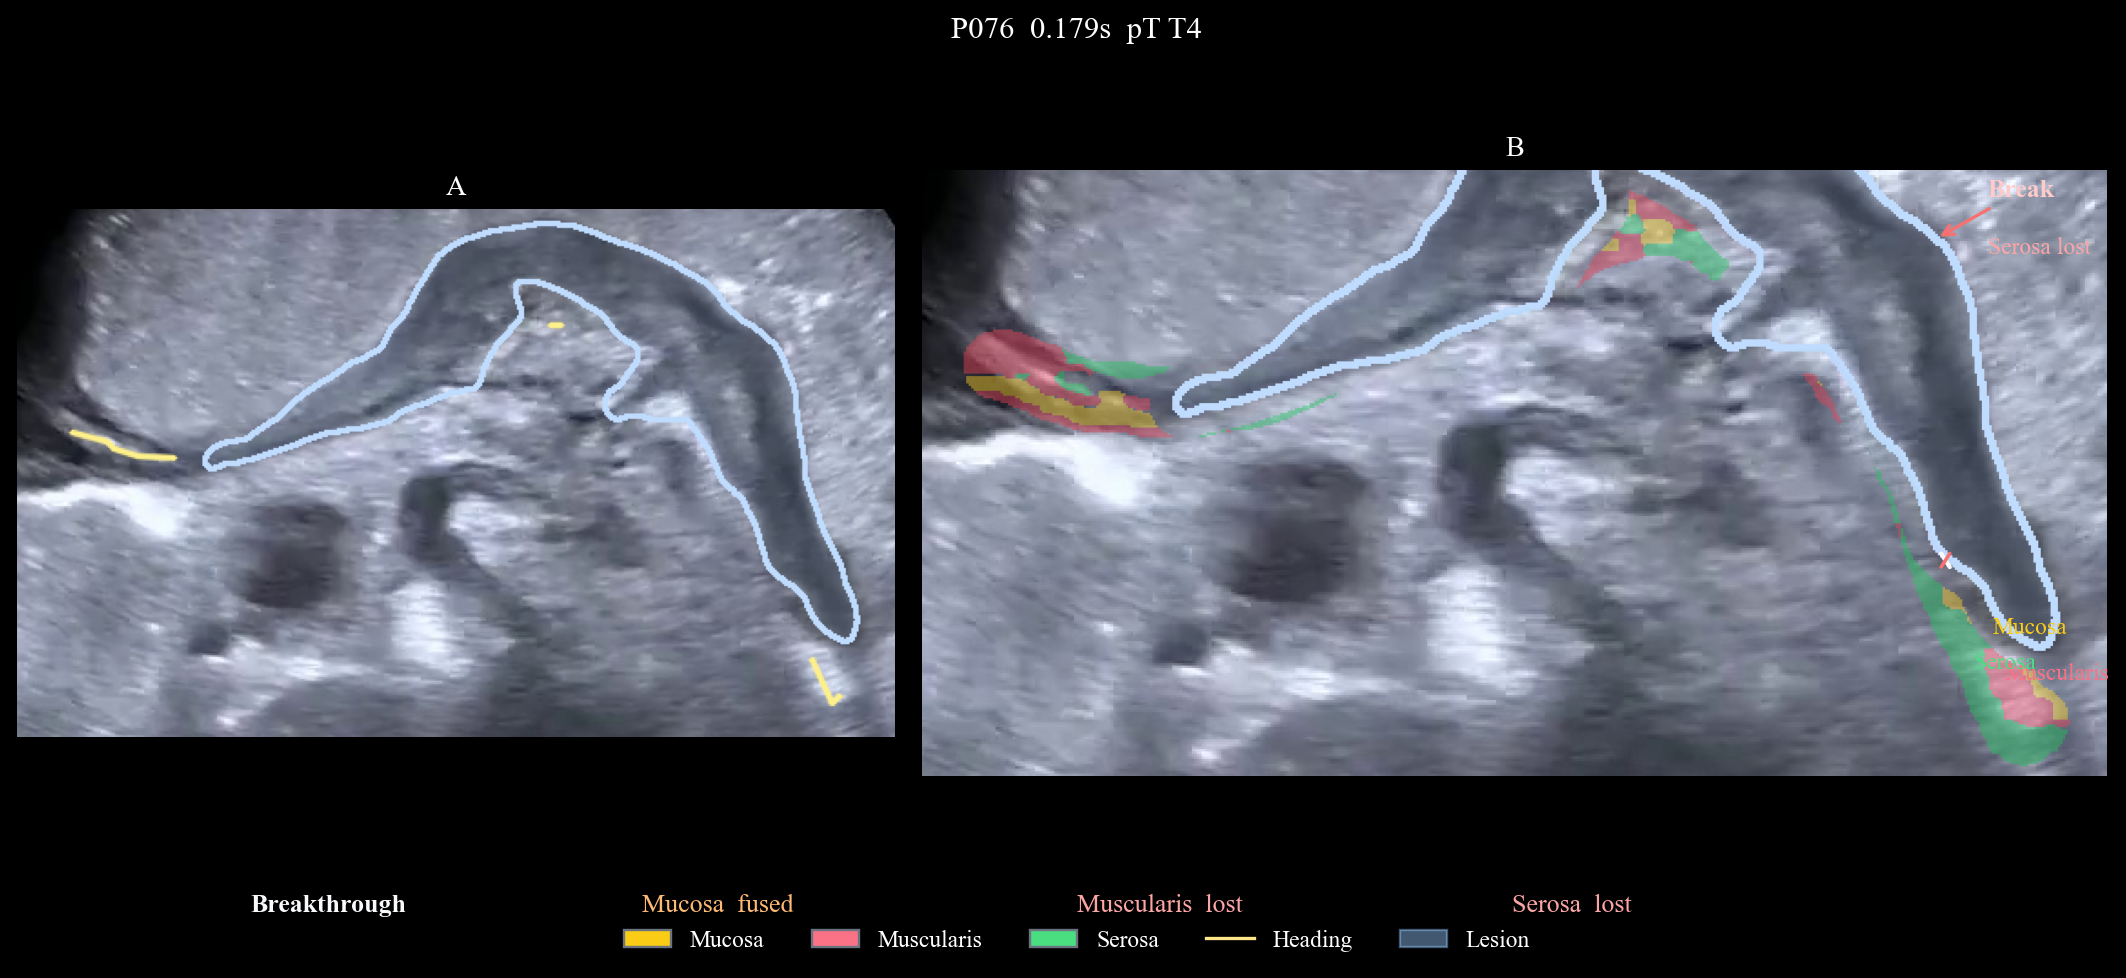
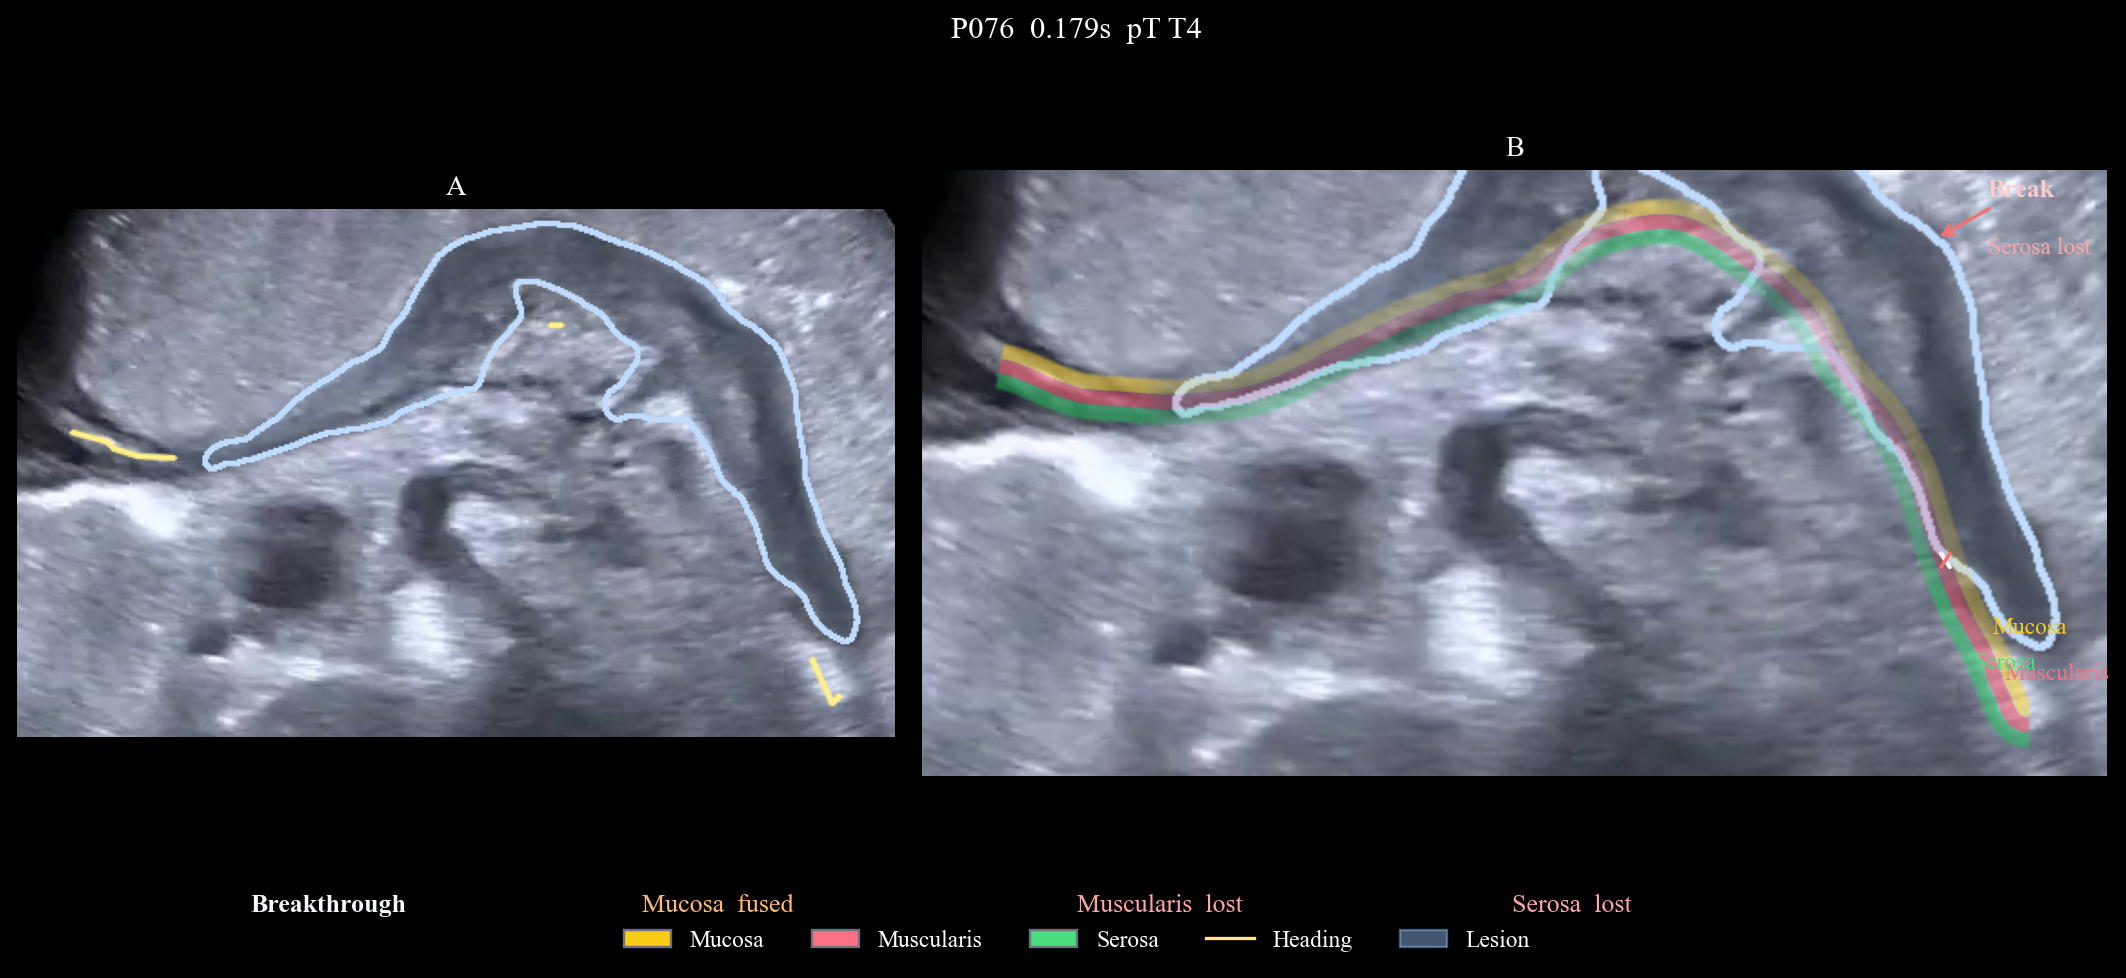
Draw one smooth yellow-red-green ribbon along the whole heading.
Collapse scribbled wall strokes to a centerline so the three colors stay one continuous strip, faded but still visible through the mass.

Changed region(s): [[0.4346, 0.184, 0.9934, 0.7975]]

diff --git a/scripts/render_wall_layer_thin_bands.py b/scripts/render_wall_layer_thin_bands.py
@@ -32,6 +32,7 @@ from matplotlib.patches import Patch
 from wall_lesion_aware_cluster import (  # noqa: E402
     DEFAULT_BRUSH,
     as_xy,
+    closest_on_poly,
     cluster_brush_band,
     densify_polyline,
     dilate_mask,
@@ -55,8 +56,8 @@ LAYER_RGB = {
 }
 LAYER_HEX = {0: "#facc15", 1: "#fb7185", 2: "#4ade80"}
 WALL = (254, 240, 138)
-SIDE_BLEND = 0.44
-MID_BLEND = 0.02
+SIDE_BLEND = 0.52
+MID_BLEND = 0.22
 LESION_BLEND = 0.16
 GAP_PX = 1
 HEADING_GAP_PX = 16
@@ -243,45 +244,264 @@ def overlay_blue(rgb: np.ndarray, mask: np.ndarray, alpha: float = LESION_BLEND)
     return np.clip(out, 0, 255).astype(np.uint8)
 
 
+def heading_flank_runs(wall: np.ndarray, lesion: np.ndarray, gap_px: int) -> list[np.ndarray]:
+    wall = as_xy(wall)
+    if len(wall) < 2:
+        return []
+    dense = densify_polyline(wall, 2.0)
+    gap = dilate_mask(lesion, gap_px) if lesion is not None else np.zeros((1, 1), dtype=np.uint8)
+    h, w = gap.shape[:2]
+    run: list[list[float]] = []
+    runs: list[np.ndarray] = []
+    for point in dense:
+        x = float(point[0])
+        y = float(point[1])
+        ix, iy = int(round(x)), int(round(y))
+        hit = 0 <= ix < w and 0 <= iy < h and gap[iy, ix] > 0
+        if hit:
+            if len(run) >= 4:
+                runs.append(np.asarray(run, dtype=np.float32))
+            run = []
+            continue
+        run.append([x, y])
+    if len(run) >= 4:
+        runs.append(np.asarray(run, dtype=np.float32))
+    return [pts for pts in runs if float(np.sum(np.linalg.norm(np.diff(pts, axis=0), axis=1))) >= 12.0]
+
+
+def _neighbors8(x: int, y: int):
+    for dy in (-1, 0, 1):
+        for dx in (-1, 0, 1):
+            if dx == 0 and dy == 0:
+                continue
+            yield x + dx, y + dy
+
+
+def longest_skeleton_path(skel: np.ndarray) -> np.ndarray:
+    ys, xs = np.where(skel)
+    if len(xs) < 2:
+        return np.zeros((0, 2), dtype=np.float32)
+    pixels = set(zip(xs.tolist(), ys.tolist()))
+    adj = {p: [q for q in _neighbors8(*p) if q in pixels] for p in pixels}
+    seen: set[tuple[int, int]] = set()
+    best_comp: list[tuple[int, int]] = []
+    for start in pixels:
+        if start in seen:
+            continue
+        queue = [start]
+        seen.add(start)
+        comp = []
+        for node in queue:
+            comp.append(node)
+            for nxt in adj[node]:
+                if nxt not in seen:
+                    seen.add(nxt)
+                    queue.append(nxt)
+        if len(comp) > len(best_comp):
+            best_comp = comp
+    ends = [p for p in best_comp if len(adj[p]) <= 1]
+    if len(ends) < 2:
+        ends = sorted(best_comp, key=lambda p: len(adj[p]))[:12]
+
+    def bfs(src: tuple[int, int]):
+        dist = {src: 0}
+        prev = {src: None}
+        queue = [src]
+        for node in queue:
+            for nxt in adj[node]:
+                if nxt not in dist:
+                    dist[nxt] = dist[node] + 1
+                    prev[nxt] = node
+                    queue.append(nxt)
+        far = max(dist, key=dist.get)
+        return far, dist[far], prev
+
+    picked = None
+    for end in ends[:24]:
+        far, dist, prev = bfs(end)
+        if picked is None or dist > picked[0]:
+            picked = (dist, end, far, prev)
+    if picked is None:
+        return np.zeros((0, 2), dtype=np.float32)
+    _dist, _end, far, prev = picked
+    path = [far]
+    while prev[path[-1]] is not None:
+        path.append(prev[path[-1]])
+    path.reverse()
+    return np.asarray(path, dtype=np.float32)
+
+
+def gaussian_smooth_poly(pts: np.ndarray, sigma: float) -> np.ndarray:
+    pts = np.asarray(pts, dtype=np.float32)
+    if len(pts) < 4 or sigma <= 0:
+        return pts
+    pts = densify_polyline(pts, 1.2)
+    arc = np.concatenate([[0.0], np.cumsum(np.linalg.norm(np.diff(pts, axis=0), axis=1))])
+    if float(arc[-1]) < 8.0:
+        return pts
+    count = max(8, int(round(float(arc[-1]) / 1.2)))
+    sample = np.linspace(0.0, float(arc[-1]), count)
+    xs = np.interp(sample, arc, pts[:, 0])
+    ys = np.interp(sample, arc, pts[:, 1])
+    radius = max(1, int(round(sigma * 3.0)))
+    kernel = np.exp(-0.5 * (np.arange(-radius, radius + 1, dtype=np.float32) / sigma) ** 2)
+    kernel /= float(kernel.sum())
+    xs = np.convolve(np.pad(xs, (radius, radius), mode="edge"), kernel, mode="valid")
+    ys = np.convolve(np.pad(ys, (radius, radius), mode="edge"), kernel, mode="valid")
+    return np.stack([xs, ys], axis=1).astype(np.float32)
+
+
+def spline_poly(pts: np.ndarray, scale: float) -> np.ndarray:
+    pts = np.asarray(pts, dtype=np.float32)
+    if len(pts) < 6:
+        return pts
+    try:
+        from scipy.interpolate import splev, splprep
+    except Exception:
+        return gaussian_smooth_poly(pts, sigma=max(2.8, 2.6 * scale))
+    arc = float(np.sum(np.linalg.norm(np.diff(pts, axis=0), axis=1)))
+    if arc < 12.0:
+        return pts
+    smooth = max(8.0, 0.35 * arc)
+    tck, _u = splprep([pts[:, 0], pts[:, 1]], s=smooth, k=3)
+    count = max(80, int(round(arc / 1.1)))
+    xs, ys = splev(np.linspace(0.0, 1.0, count), tck)
+    return np.stack([xs, ys], axis=1).astype(np.float32)
+
+
+def heading_centerline(wall: np.ndarray, shape: tuple[int, int], scale: float) -> np.ndarray:
+    """One smooth curve. Collapses a scribbled stroke to its centerline."""
+    wall = as_xy(wall)
+    h, w = shape[:2]
+    if len(wall) < 2 or h < 2 or w < 2:
+        return wall
+    brush = max(5, int(round(3.6 * scale)))
+    stroke = np.zeros((h, w), dtype=np.uint8)
+    cv2.polylines(stroke, [np.round(wall).astype(np.int32)], False, 255, brush, cv2.LINE_AA)
+    path = np.zeros((0, 2), dtype=np.float32)
+    try:
+        from skimage.morphology import skeletonize
+
+        path = longest_skeleton_path(skeletonize(stroke > 0))
+    except Exception:
+        path = np.zeros((0, 2), dtype=np.float32)
+    if len(path) < 8:
+        path = wall
+    if len(path) >= 2 and float(np.sum((path[0] - wall[0]) ** 2)) > float(np.sum((path[-1] - wall[0]) ** 2)):
+        path = path[::-1]
+    path = gaussian_smooth_poly(path, sigma=max(3.2, 2.8 * scale))
+    path = spline_poly(path, scale)
+    return densify_polyline(np.asarray(path, dtype=np.float32), max(1.0, 1.1 * scale))
+
+
+def polyline_normals(pts: np.ndarray) -> np.ndarray:
+    pts = np.asarray(pts, dtype=np.float32)
+    tan = np.zeros_like(pts)
+    tan[1:] = pts[1:] - pts[:-1]
+    tan[0] = tan[1] if len(pts) > 1 else np.array([1.0, 0.0], dtype=np.float32)
+    empty = np.linalg.norm(tan, axis=1) < 1e-6
+    if empty.any() and (~empty).any():
+        tan[empty] = tan[~empty][0]
+    nrm = np.stack([-tan[:, 1], tan[:, 0]], axis=1)
+    leng = np.linalg.norm(nrm, axis=1, keepdims=True)
+    leng = np.where(leng < 1e-6, 1.0, leng)
+    nrm = nrm / leng
+    if len(nrm) >= 5:
+        radius = 4
+        kernel = np.ones(2 * radius + 1, dtype=np.float32)
+        kernel /= float(kernel.sum())
+        nrm[:, 0] = np.convolve(np.pad(nrm[:, 0], (radius, radius), mode="edge"), kernel, mode="valid")
+        nrm[:, 1] = np.convolve(np.pad(nrm[:, 1], (radius, radius), mode="edge"), kernel, mode="valid")
+        leng = np.linalg.norm(nrm, axis=1, keepdims=True)
+        leng = np.where(leng < 1e-6, 1.0, leng)
+        nrm = nrm / leng
+    return nrm.astype(np.float32)
+
+
+def layer_offsets(wall, xs, ys, labels, lesion, scale: float) -> list[float]:
+    xs = np.asarray(xs, dtype=np.float32)
+    ys = np.asarray(ys, dtype=np.float32)
+    labels = np.asarray(labels, dtype=np.int32)
+    wall = as_xy(wall)
+    dense = densify_polyline(wall, 2.0) if len(wall) >= 2 else wall
+    mid = dilate_mask(lesion, max(4, int(round(10 * scale)))) > 0 if lesion is not None else None
+    found: list[float | None] = [None, None, None]
+    if len(dense) >= 2 and len(xs) == len(labels):
+        for lab in (0, 1, 2):
+            cand = []
+            for x, y, lab_i in zip(xs.tolist(), ys.tolist(), labels.tolist()):
+                if int(lab_i) != lab:
+                    continue
+                ix, iy = int(round(x)), int(round(y))
+                if mid is not None and 0 <= iy < mid.shape[0] and 0 <= ix < mid.shape[1] and mid[iy, ix]:
+                    continue
+                cand.append((x, y))
+            if len(cand) > 80:
+                step = max(1, len(cand) // 80)
+                cand = cand[::step]
+            dists = []
+            for x, y in cand:
+                proj, _idx, _d, tan = closest_on_poly(np.array([x, y], dtype=np.float32), dense)
+                normal = np.array([-tan[1], tan[0]], dtype=np.float32)
+                dists.append(float(np.dot(np.array([x, y], dtype=np.float32) - proj, normal)))
+            if len(dists) >= 8:
+                found[lab] = float(np.median(np.asarray(dists, dtype=np.float32)))
+    step = 6.0 * scale
+    mid_off = found[1] if found[1] is not None else 0.0
+    offs = [
+        found[0] if found[0] is not None else mid_off - step,
+        mid_off,
+        found[2] if found[2] is not None else mid_off + step,
+    ]
+    if not (offs[0] < offs[1] < offs[2] and offs[1] - offs[0] >= 3.2 * scale and offs[2] - offs[1] >= 3.2 * scale):
+        offs = [mid_off - step, mid_off, mid_off + step]
+    return offs
+
+
 def overlay_layers(
     rgb: np.ndarray,
     xs,
     ys,
     labels,
+    wall,
     lesion: np.ndarray | None = None,
+    scale: float = 1.0,
 ) -> np.ndarray:
-    """Side bands stay separate and continuous. The middle is almost clear."""
-    xs = np.asarray(xs, dtype=np.int32)
-    ys = np.asarray(ys, dtype=np.int32)
-    labels = np.asarray(labels, dtype=np.int32)
+    """One continuous yellow-red-green ribbon. Strong on the flanks, still visible on the mass."""
     h, w = rgb.shape[:2]
-    ok = (xs >= 0) & (ys >= 0) & (xs < w) & (ys < h) & (labels >= 0)
-    stack = []
-    colors = []
-    for lab, color in LAYER_RGB.items():
-        band = np.zeros((h, w), dtype=np.float32)
-        sel = ok & (labels == lab)
-        if sel.any():
-            band[ys[sel], xs[sel]] = 1.0
-        band = cv2.morphologyEx((band > 0.5).astype(np.uint8), cv2.MORPH_CLOSE, np.ones((7, 7), np.uint8))
-        band = cv2.GaussianBlur(band.astype(np.float32), (5, 5), 0.70)
-        stack.append(band)
-        colors.append(np.array(color, dtype=np.float32))
-    stack = np.stack(stack, axis=0)
+    wall = as_xy(wall)
+    if len(wall) < 4:
+        return rgb
+    path = heading_centerline(wall, (h, w), scale)
+    if len(path) < 4:
+        return rgb
+    offs = layer_offsets(wall, xs, ys, labels, lesion, scale)
+    normals = polyline_normals(path)
+    half = 0.5 * min(offs[1] - offs[0], offs[2] - offs[1])
+    edges = [offs[0] - half, 0.5 * (offs[0] + offs[1]), 0.5 * (offs[1] + offs[2]), offs[2] + half]
+    masks = [np.zeros((h, w), dtype=np.uint8) for _ in range(3)]
+    for lab in range(3):
+        inner = path + normals * float(edges[lab])
+        outer = path + normals * float(edges[lab + 1])
+        poly = np.vstack([inner, outer[::-1]])
+        cv2.fillPoly(masks[lab], [np.round(poly).astype(np.int32)], 255, cv2.LINE_AA)
+        masks[lab] = cv2.GaussianBlur(masks[lab], (0, 0), max(0.8, 0.55 * scale))
+    stack = np.stack(masks, axis=0).astype(np.float32) / 255.0
     winner = stack.argmax(axis=0)
-    wmax = stack.max(axis=0)
+    cover = stack.max(axis=0)
     wash = np.zeros((h, w, 3), dtype=np.float32)
-    kernel = np.ones((5, 5), np.uint8)
-    for lab, color in enumerate(colors):
-        sel = ((winner == lab) & (wmax >= 0.28)).astype(np.uint8)
-        sel = cv2.morphologyEx(sel, cv2.MORPH_CLOSE, kernel)
-        wash[sel > 0] = color
-    mid = np.zeros((h, w), dtype=bool)
+    for lab, color in LAYER_RGB.items():
+        sel = cover > 0.02
+        sel = sel & (winner == lab)
+        wash[sel] = np.array(color, dtype=np.float32)
+    blend = np.full((h, w), SIDE_BLEND, dtype=np.float32)
     if lesion is not None and lesion.shape[:2] == (h, w):
-        mid = dilate_mask(lesion, 10) > 0
-    cover = (wash.sum(axis=2) > 0).astype(np.float32)
-    blend = np.where(mid, MID_BLEND, SIDE_BLEND).astype(np.float32)
-    alpha = np.clip(cover * blend, 0.0, SIDE_BLEND)[..., None]
+        outside = np.where(lesion > 0, 0, 255).astype(np.uint8)
+        dist = cv2.distanceTransform(outside, cv2.DIST_L2, 5)
+        fade = max(18.0, 14.0 * scale)
+        t = np.clip(dist / fade, 0.0, 1.0)
+        blend = MID_BLEND + t * (SIDE_BLEND - MID_BLEND)
+    alpha = (cover * blend)[..., None]
     out = (1.0 - alpha) * rgb.astype(np.float32) + alpha * wash
     return np.clip(out, 0, 255).astype(np.uint8)
 
@@ -624,16 +844,29 @@ def render_case(meta: dict, seg: RoiSegmenter, out_dir: Path, brush: float) -> d
     panel_a = draw_heading(panel_a, wall_crop, crop_mask)
 
     labeled = overlay_blue(crop_rgb.copy(), crop_mask)
-    if arm is not None and getattr(arm, "status", "") == "ok":
-        labeled = overlay_layers(labeled, arm.xs, arm.ys, arm.labels, lesion=crop_mask)
     sx1, sy1, sx2, sy2 = wall_strip(labeled, wall_crop, pad=20)
     strip = labeled[sy1:sy2, sx1:sx2]
     scale = 4
     panel_b = cv2.resize(
         strip,
         (strip.shape[1] * scale, strip.shape[0] * scale),
-        interpolation=cv2.INTER_NEAREST,
+        interpolation=cv2.INTER_LINEAR,
     )
+    if arm is not None and getattr(arm, "status", "") == "ok":
+        wall_hi = wall_crop.copy()
+        if len(wall_hi):
+            wall_hi[:, 0] = (wall_hi[:, 0] - sx1) * scale
+            wall_hi[:, 1] = (wall_hi[:, 1] - sy1) * scale
+        lesion_hi = cv2.resize(
+            crop_mask[sy1:sy2, sx1:sx2],
+            (panel_b.shape[1], panel_b.shape[0]),
+            interpolation=cv2.INTER_NEAREST,
+        )
+        xs_hi = (np.asarray(arm.xs, dtype=np.float32) - sx1) * scale
+        ys_hi = (np.asarray(arm.ys, dtype=np.float32) - sy1) * scale
+        panel_b = overlay_layers(
+            panel_b, xs_hi, ys_hi, arm.labels, wall_hi, lesion=lesion_hi, scale=float(scale),
+        )
 
     time_sec = meta.get("time_sec")
     fates = list(getattr(arm, "fates", None) or [])

diff --git a/docs/PROJECT_CHANGELOG.md b/docs/PROJECT_CHANGELOG.md
@@ -2,6 +2,14 @@
 
 This file records material project changes, their validation, and deployment state. Do not add patient identifiers, credentials, tokens, private URLs, or sensitive clinical data.
 
+## 2026-08-29, Draw one smooth triple ribbon along the whole heading
+
+- Scope: `scripts/render_wall_layer_thin_bands.py` (all four panels).
+- Reason: Flank-only stacks still looked broken. The three colors need one continuous ribbon, still readable through the mass.
+- Key changes: Collapse a scribbled heading to a skeleton centerline, spline-smooth it, and fill exclusive yellow / red / green strips. Strong on the flanks, faded but visible through the lesion. Does not unlock cT.
+- Validation: Offline four-case render.
+- Deployment: none (offline figure).
+
 ## 2026-08-29, Clear side bands, no gray heading through the mass
 
 - Scope: `scripts/render_wall_layer_thin_bands.py` (all four panels).
